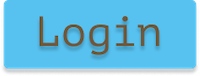
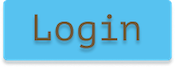
css login

diff --git a/src/css/Store.css b/src/css/Store.css
@@ -4,7 +4,7 @@
     background-image: url(../images/mainbg.jpg);
     background-repeat: no-repeat;
     background-size: cover;
-    padding-top: 10em;
+    padding-top: 8em;
     display: flex;    
     flex-wrap: nowrap;
     height:100%;
@@ -14,16 +14,8 @@
     align-self: flex-start;
 
 }
-.Avatar{
-    flex: 'flex-shrink';
-    padding-right: 8em;
-    padding-top: 8em;
-    margin-top: 5em;
-    height: 2em;
-    width: auto; 
-}
 .Acc{
     flex: 'flex-shrink';
     padding-top: 8em;
-    padding-left: -10em;
+    padding-left: -50em;
 }

diff --git a/src/css/Login.css b/src/css/Login.css
@@ -1,6 +1,6 @@
 /* BODY AND BACKGROUNDS */
 body{
-  font-size: 16px;
+  font-size: 15px;
   font-family: 'Sigmar One', 'cursive';
 }
 
@@ -19,9 +19,8 @@ body{
     padding-top: 3em;
     width: 8.5em;
     position: absolute;
-    top: 58%;
+    top: 60%;
     left: 40%;
-    margin-right: -50%;
     transform: translate(-50%, -50%) 
 }
 .loginImg{
